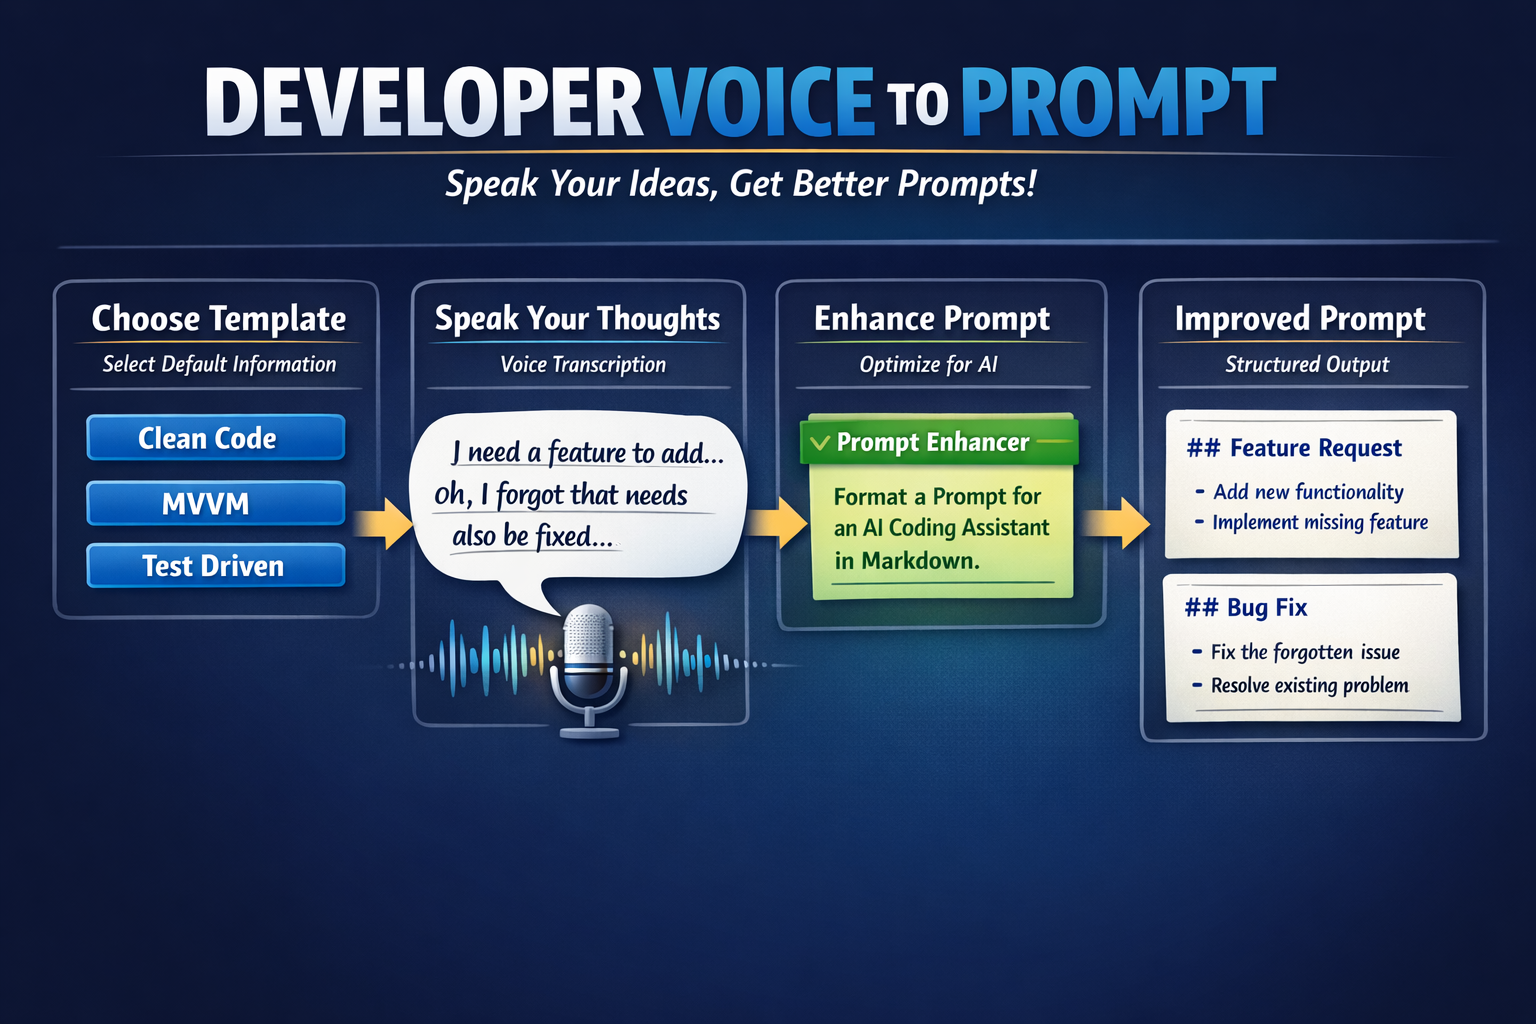
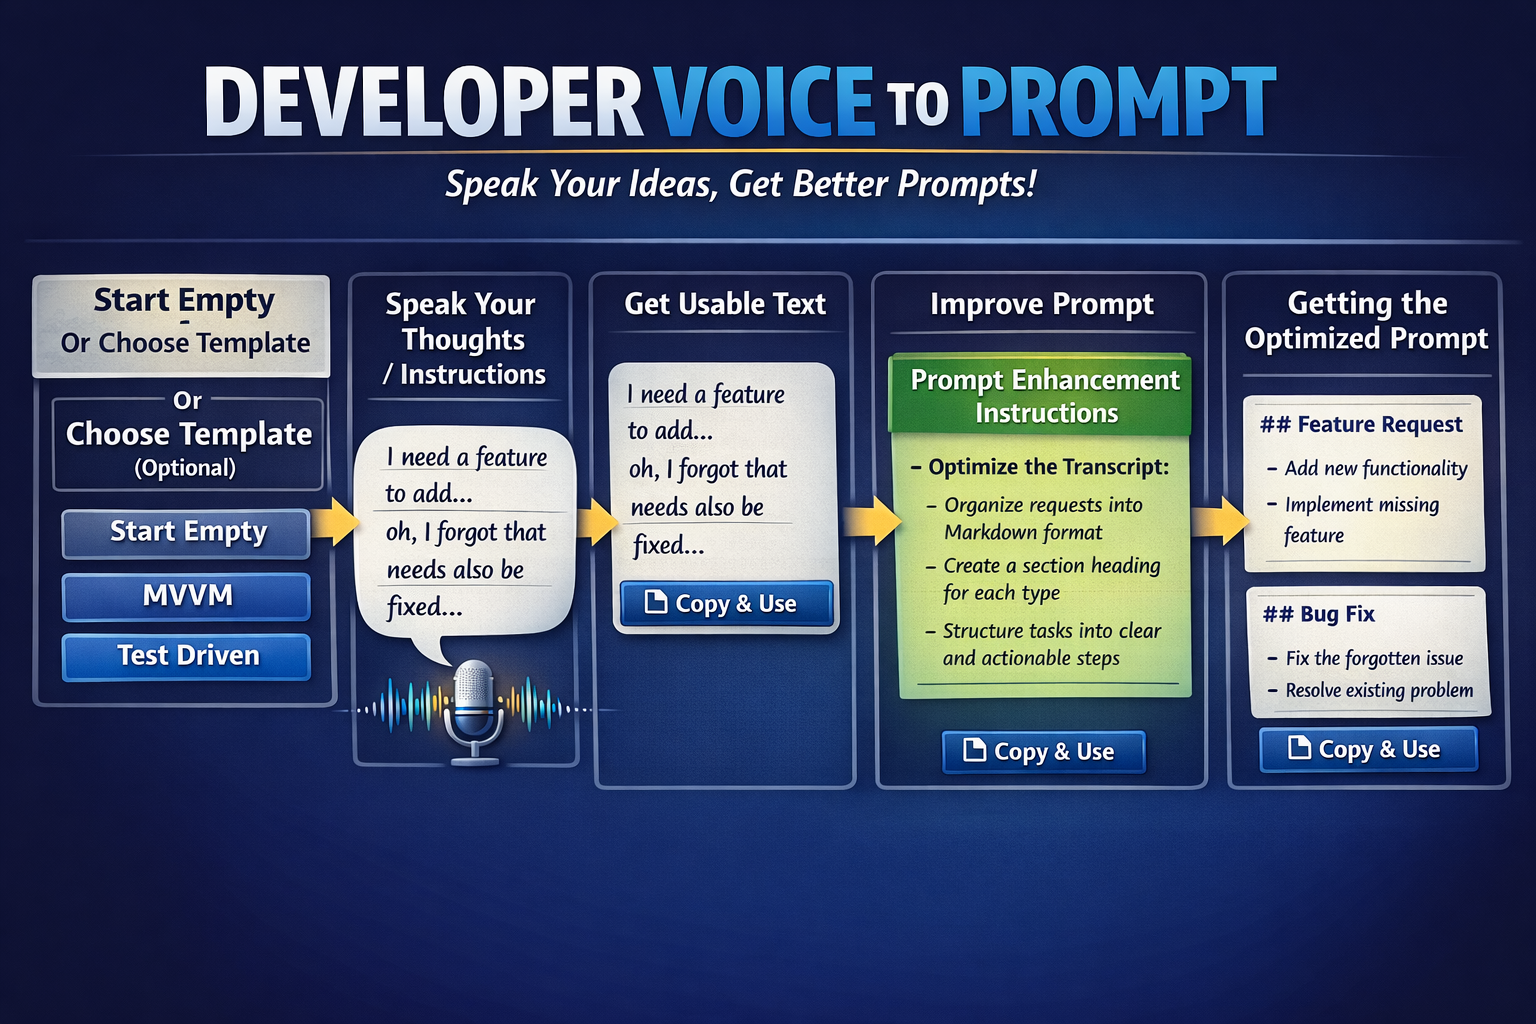
feat: add reset functionality for enhancer templates and update prompt enhancer instructions

diff --git a/src/components/settings/CopilotTab.svelte b/src/components/settings/CopilotTab.svelte
@@ -1,6 +1,6 @@
 <script lang="ts">
   import { copilotInit, copilotAuthStatus, copilotListModels, copilotStop, type CopilotAuthStatus, type CopilotModel } from "../../lib/copilotStore";
-  import { getEnhancerTemplates, addEnhancerTemplate, updateEnhancerTemplate, deleteEnhancerTemplate, type EnhancerTemplate } from "../../lib/enhancerTemplateStore";
+  import { getEnhancerTemplates, addEnhancerTemplate, updateEnhancerTemplate, deleteEnhancerTemplate, resetEnhancerTemplates, type EnhancerTemplate } from "../../lib/enhancerTemplateStore";
   import { EVENT_ENHANCER_TEMPLATES_UPDATED } from "../../lib/constants";
   import { emit } from "@tauri-apps/api/event";
   import ShortcutRecorder from "../ShortcutRecorder.svelte";
@@ -31,6 +31,7 @@
   // Enhancer template CRUD state
   let enhancerTemplates = $state<EnhancerTemplate[]>([]);
   let deleteConfirmId = $state<string | null>(null);
+  let resetConfirm = $state(false);
 
   // Modal state for add/edit
   let modalOpen = $state(false);
@@ -137,6 +138,13 @@
     await deleteEnhancerTemplate(id);
     enhancerTemplates = await getEnhancerTemplates();
     deleteConfirmId = null;
+    await emit(EVENT_ENHANCER_TEMPLATES_UPDATED);
+  }
+
+  async function handleResetTemplates() {
+    enhancerTemplates = await resetEnhancerTemplates();
+    copilotSelectedEnhancer = "";
+    resetConfirm = false;
     await emit(EVENT_ENHANCER_TEMPLATES_UPDATED);
   }
 </script>
@@ -246,9 +254,26 @@
       </div>
     {/if}
 
-    <button type="button" class="toggle-btn" onclick={openAddModal}>
-      + Add Template
-    </button>
+    <div style="display: flex; gap: 8px;">
+      <button type="button" class="toggle-btn" onclick={openAddModal}>
+        + Add Template
+      </button>
+      {#if resetConfirm}
+        <button type="button" class="toggle-btn danger" onclick={handleResetTemplates}>
+          Confirm Reset
+        </button>
+        <button type="button" class="toggle-btn" onclick={() => resetConfirm = false}>
+          Cancel
+        </button>
+      {:else}
+        <button type="button" class="toggle-btn" onclick={() => resetConfirm = true}>
+          Reset to Defaults
+        </button>
+      {/if}
+    </div>
+    {#if resetConfirm}
+      <p class="hint" style="color: var(--error); margin-top: 6px;">This will replace all your templates with the defaults. Custom templates will be lost.</p>
+    {/if}
 
     {#if enhancerTemplates.length > 0}
       <div class="field" style="margin-top: 12px;">
@@ -434,5 +459,13 @@
   .toggle-btn.primary:disabled {
     opacity: 0.4;
     cursor: not-allowed;
+  }
+
+  .toggle-btn.danger {
+    color: var(--error);
+    border-color: var(--error);
+  }
+  .toggle-btn.danger:hover {
+    background: var(--error-bg);
   }
 </style>

diff --git a/src/lib/constants.ts b/src/lib/constants.ts
@@ -37,7 +37,7 @@ export const DEFAULT_MAX_RECORDING_SECONDS = 180;
 export const WHISPER_SILENCE_RMS_THRESHOLD = 0.01;
 
 // Prompt enhancer system prompt wrapper
-export const ENHANCE_SYSTEM_PROMPT_WRAPPER = `You are a prompt enhancer. The user will provide raw dictated text. Apply the following enhancement instructions, then output ONLY the final optimized prompt with no explanations or commentary.
+export const ENHANCE_SYSTEM_PROMPT_WRAPPER = `You are a text-only prompt enhancer. You have no access to files, tools, or external resources. Your sole task is to process the raw dictated text provided by the user. Apply the following enhancement instructions, then output ONLY the final enhanced text with no explanations, commentary, or markdown formatting.
 
 Enhancement instructions:
 `;

diff --git a/src/lib/enhancerTemplateStore.ts b/src/lib/enhancerTemplateStore.ts
@@ -97,3 +97,18 @@ export async function deleteEnhancerTemplate(id: string): Promise<void> {
   await s.set("templates", filtered);
   await s.save();
 }
+
+export async function resetEnhancerTemplates(): Promise<EnhancerTemplate[]> {
+  const s = await getStore();
+  const now = new Date().toISOString();
+  const defaults: EnhancerTemplate[] = DEFAULT_ENHANCER_TEMPLATES.map((t) => ({
+    id: crypto.randomUUID(),
+    name: t.name,
+    text: t.text,
+    createdAt: now,
+    updatedAt: now,
+  }));
+  await s.set("templates", defaults);
+  await s.save();
+  return defaults;
+}
